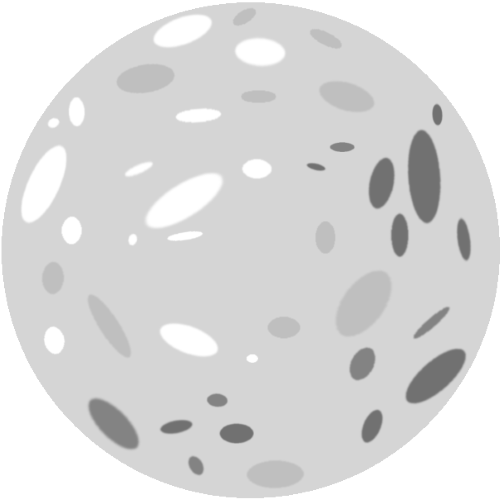
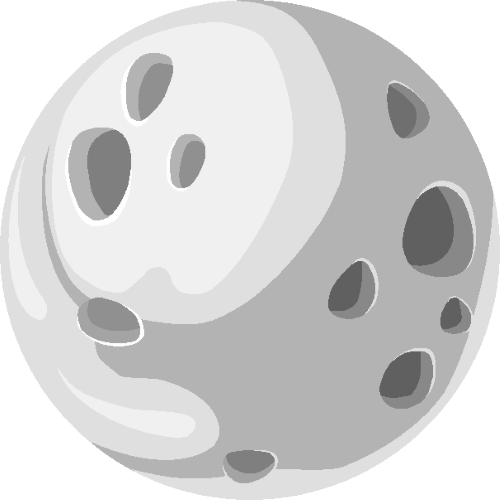
Update 270119.1
Reworked planets 1 and 2, added planet 5. Tweaked menu screen and added flash between planets.

diff --git a/game.min.js b/game.min.js
@@ -1,1 +1,1 @@
-const planetsCount=4,asteroidsCount=2;var highScore,loadState={preload:function(){game.load.image("background","assets/background.png"),game.load.image("logo","assets/logo.png"),game.load.image("player","assets/player.png"),game.load.spritesheet("engine","assets/engine.png",250,250,3),game.load.image("bullet","assets/bullet.png"),game.load.spritesheet("asteroids","assets/asteroids.png",80,80,asteroidsCount),game.load.spritesheet("planets","assets/planets.png",500,500,planetsCount),(highScore=window.localStorage.getItem("highScore"))||(highScore=0)},create:function(){game.state.start("menu")}},menuState={create:function(){this.background=game.add.sprite(0,0,"background"),this.planet=game.add.sprite(game.world.centerX,game.world.centerY,"planets"),this.planet.anchor.setTo(.5,.5),this.planet.frame=1,this.planet.tint=8327184,this.planet.scale.setTo(.5),this.logo=game.add.sprite(game.world.centerX,.8*game.world.centerY,"logo"),this.logo.anchor.setTo(.5,.5),this.logo.scale.setTo(.5),this.playText=game.add.text(game.world.centerX,1.6*game.world.centerY,"Press [SPACEBAR] to start!",{fill:"#FFF",font:"bold 26px Roboto"}),this.playText.anchor.setTo(.5),this.playText.alpha=0,this.tween=game.add.tween(this.playText).to({alpha:1},1e3,"Linear",!0,0,-1),this.tween.yoyo(!0,2e3),this.playKey=game.input.keyboard.addKey(Phaser.Keyboard.SPACEBAR),this.playKey.onDown.add(this.startGame,this)},startGame:function(){game.state.start("play")}};const innerOrbitOffset=0,outerOrbitOffset=75;var planet,orbit;function createPlanet(){(planet=game.add.sprite(game.world.centerX,game.world.centerY,"planets")).anchor.setTo(.5,.5),(orbit=game.add.graphics()).anchor.setTo(.5,.5),drawOrbit()}function generatePlanet(){let e=Math.floor(Math.random()*planetsCount),t=Math.floor(361*Math.random()-180),a=11316396*Math.random()+5460819,r=0,o=.005*(r=current.level<=50?Math.floor(Math.random()*(2*current.level+50)+200):Math.floor(151*Math.random()+200));planet.frame=e,planet.angle=t,planet.tint=a,planet.height=r,planet.width=r,planet.gravity=o,drawOrbit()}function drawOrbit(){orbit.clear(),orbit.lineStyle(2,16777215,.1),orbit.drawCircle(planet.x,planet.y,planet.width+110+outerOrbitOffset),orbit.drawCircle(planet.x,planet.y,planet.width+15+playerSize+innerOrbitOffset)}const playerSize=20;var player;function createPlayer(){player=game.add.sprite(game.world.centerX-playerSize/2,(game.height-planet.height)/2-playerSize,"player"),game.physics.enable(player,Phaser.Physics.ARCADE),player.width=playerSize,player.height=playerSize,player.anchor.setTo(.5,.5);let e=player.addChild(game.make.sprite(-125,-345,"engine"));e.animations.add("thrust"),e.animations.play("thrust",13,!0),player.speed=1,player.currentAngle=-90,player.maneuverForce=3.25,player.orbitOffset=outerOrbitOffset/2,player.orbitDirection=0,player.weapon=game.add.weapon(1,"bullet"),player.weapon.bulletKillType=Phaser.Weapon.KILL_WORLD_BOUNDS,player.weapon.trackSprite(player,0,15),player.weapon.bulletSpeed=400}function movePlayer(){0!=player.orbitDirection&&(player.orbitOffset>=innerOrbitOffset&&player.orbitOffset<=outerOrbitOffset&&(player.orbitOffset+=player.orbitDirection>0?player.orbitDirection-planet.gravity:player.orbitDirection+planet.gravity),player.orbitOffset<0&&(player.orbitOffset=0,player.orbitDirection=0),player.orbitOffset>75&&(player.orbitOffset=75,player.orbitDirection=0)),player.currentAngle=Phaser.Math.wrapAngle(player.currentAngle+player.speed);let e=Phaser.Math.degToRad(player.currentAngle),t=(planet.width+15+playerSize)/2+player.orbitOffset;player.x=planet.x+t*Math.cos(e),player.y=planet.y+t*Math.sin(e),player.angle=player.currentAngle}const spawnCount=12;var asteroids;function createAsteroids(){for(let e=0;e<spawnCount;e++){let e=game.add.sprite(game.world.centerX,game.world.centerY,"asteroids");e.anchor.setTo(.5,.5),e.kill(),asteroids.add(e)}asteroids.count=4,asteroids.nextPosition=0}function generateAsteroids(){current.level%3==0&&asteroids.count<spawnCount&&asteroids.count++;let e=-70,t=generatePositions(),a=0,r=[];for(let o=0;o<16;o++)if(o%2==0&&(e=Phaser.Math.wrapAngle(e+40)),t[a]==o){let t=asteroids.getChildAt(a),o=Math.floor(3*Math.random()-1),s=Phaser.Math.degToRad(e+o),n=Math.floor(11*Math.random()+15),i=(planet.width+15+n)/2,l=Math.floor(Math.random()*(outerOrbitOffset+1));if(r.push([e,l,e+o]),a>0&&e==r[a-1][0]){let e=r[a-1][1],t=Math.abs(e-l);t<n&&(l=e+n),e<15&&l>outerOrbitOffset-15&&(l=outerOrbitOffset),l<15&&e>outerOrbitOffset-15&&(l=innerOrbitOffset),e>20&&e<outerOrbitOffset-20&&t<n&&(l=e+n/2)}let d=i+l,h=planet.x+d*Math.cos(s),c=planet.y+d*Math.sin(s),p=Math.floor(Math.random()*asteroidsCount),g=Math.floor(361*Math.random()-180),m=1579032*Math.random()+10395294;t.x=h,t.y=c,t.height=n,t.width=n,t.frame=p,t.angle=g,t.tint=m,t.revive(),a++}asteroids.positionArr=r.map(function(e){return e[2]})}function generatePositions(){let e=[];if(asteroids.count<9)for(let t=0;t<8;t++)e[t]=2*t;else for(let t=0;t<16;t++)e[t]=t;let t,a=e.length,r=0;for(;a--;)r=Math.floor(Math.random()*(a+1)),t=e[a],e[a]=e[r],e[r]=t;return(e=e.slice(0,asteroids.count)).sort((e,t)=>e-t),e}var current={level:1,score:0,ammo:1},playState={create:function(){this.background=game.add.sprite(0,0,"background"),this.physics.startSystem(Phaser.Physics.ARCADE),createPlanet(),generatePlanet(),createPlayer(),asteroids=game.add.physicsGroup(),createAsteroids(),generateAsteroids(),this.levelLabel=game.add.text(.2*game.world.centerX,1.75*game.world.centerY,"LEVEL",{fill:"#fff",font:"18px Roboto"}),this.levelLabel.anchor.setTo(.5),this.levelText=game.add.text(.2*game.world.centerX,1.85*game.world.centerY,"999",{fill:"#fff",font:"bold 26px Roboto"}),this.levelText.anchor.setTo(.5),this.scoreLabel=game.add.text(1.8*game.world.centerX,1.75*game.world.centerY,"SCORE",{fill:"#fff",font:"18px Roboto"}),this.scoreLabel.anchor.setTo(.5),this.scoreText=game.add.text(1.8*game.world.centerX,1.85*game.world.centerY,"999999",{fill:"#fff",font:"bold 26px Roboto"}),this.scoreText.anchor.setTo(.5),this.plusKey=game.input.keyboard.addKey(Phaser.Keyboard.UP),this.plusKey.onDown.add(this.incOrbit,this),this.minusKey=game.input.keyboard.addKey(Phaser.Keyboard.DOWN),this.minusKey.onDown.add(this.decOrbit,this),this.fireKey=game.input.keyboard.addKey(Phaser.Keyboard.SPACEBAR),this.fireKey.onDown.add(this.fire,this)},update:function(){movePlayer(),game.physics.arcade.overlap(player,asteroids,this.playerHit),game.physics.arcade.overlap(player.weapon.bullets,asteroids,this.asteroidHit);let e=asteroids.positionArr[asteroids.nextPosition];e-1<player.angle&&e+1>player.angle&&(current.score+=current.level,asteroids.nextPosition++,asteroids.nextPosition==asteroids.positionArr.length?asteroids.nextPosition=0:e==asteroids.positionArr[asteroids.nextPosition]&&(current.score+=current.level,asteroids.nextPosition++)),-91==player.angle&&(current.level++,current.ammo=1,generatePlanet(),generateAsteroids()),this.levelText.setText(current.level),this.scoreText.setText(current.score)},incOrbit:function(){player.orbitDirection=player.maneuverForce},decOrbit:function(){player.orbitDirection=-player.maneuverForce},fire:function(){current.ammo>0&&(player.weapon.fireAngle=player.angle+90,player.weapon.fire(),current.ammo--)},playerHit:function(){game.state.start("lose")},asteroidHit:function(e,t){current.score+=current.level,t.kill()}},loseState={create:function(){this.background=game.add.sprite(0,0,"background"),this.gameOverText=game.add.text(game.world.centerX,.5*game.world.centerY,"GAME OVER!",{fill:"#FFF",font:"bold 48px Roboto"}),this.gameOverText.anchor.setTo(.5),this.scoreText=game.add.text(game.world.centerX,.8*game.world.centerY,"Score",{fill:"#FFF",font:"24px Roboto"}),this.scoreText.anchor.setTo(.5),this.lastScoreText=game.add.text(.8*game.world.centerX,game.world.centerY,"LAST:",{fill:"#FFF",font:"22px Roboto"}),this.lastScoreText.anchor.setTo(.5),this.lastScore=game.add.text(1.1*game.world.centerX,game.world.centerY,"999999",{fill:"#FFF",font:"bold 28px Roboto"}),this.lastScore.anchor.setTo(.5),this.highScoreText=game.add.text(.8*game.world.centerX,1.2*game.world.centerY,"HIGH:",{fill:"#FFF",font:"22px Roboto"}),this.highScoreText.anchor.setTo(.5),this.highScore=game.add.text(1.1*game.world.centerX,1.2*game.world.centerY,"999999",{fill:"#FFF",font:"bold 28px Roboto"}),this.highScore.anchor.setTo(.5),this.gameScore(),this.replayText=game.add.text(game.world.centerX,1.5*game.world.centerY,"Press [SPACEBAR] to restart!",{fill:"#FFF",font:"bold 26px Roboto"}),this.replayText.anchor.setTo(.5),this.replayText.alpha=0,this.tween=game.add.tween(this.replayText).to({alpha:1},1e3,"Linear",!0,0,-1),this.tween.yoyo(!0,2e3),this.replayKey=game.input.keyboard.addKey(Phaser.Keyboard.SPACEBAR),this.replayKey.onDown.add(this.restartGame,this)},restartGame:function(){current.level=1,current.score=0,current.ammo=1,game.state.start("play")},gameScore:function(){current.score>highScore&&(highScore=current.score,window.localStorage.setItem("highScore",highScore),this.scoreText.setText("NEW RECORD!"),this.scoreText.addColor("#ffd700",0),this.highScore.addColor("#ffd700",0)),this.lastScore.setText(current.score),this.highScore.setText(highScore)}},gameConfig={width:600,height:600,renderer:Phaser.CANVAS,parent:"game"},game=new Phaser.Game(gameConfig);game.state.add("load",loadState),game.state.add("menu",menuState),game.state.add("play",playState),game.state.add("lose",loseState),game.state.start("load");
+const planetsCount=5,asteroidsCount=2;var highScore,loadState={preload:function(){game.load.image("background","assets/background.png"),game.load.image("logo","assets/logo.png"),game.load.image("player","assets/player.png"),game.load.spritesheet("engine","assets/engine.png",250,250,3),game.load.image("bullet","assets/bullet.png"),game.load.spritesheet("asteroids","assets/asteroids.png",80,80,asteroidsCount),game.load.spritesheet("planets","assets/planets.png",500,500,planetsCount),(highScore=window.localStorage.getItem("highScore"))||(highScore=0)},create:function(){game.state.start("menu")}},menuState={create:function(){this.background=game.add.sprite(0,0,"background"),this.planet=game.add.sprite(game.world.centerX,game.world.centerY,"planets"),this.planet.anchor.setTo(.5,.5),this.planet.tint=8327184,this.planet.scale.setTo(.5),this.planet.alpha=0,game.add.tween(this.planet).to({alpha:1},1500,"Linear",!0),this.logo=game.add.sprite(game.world.centerX,.8*game.world.centerY,"logo"),this.logo.anchor.setTo(.5,.5),this.logo.scale.setTo(.5),this.logo.alpha=0,game.add.tween(this.logo).to({alpha:1},1500,"Linear",!0),this.playText=game.add.text(game.world.centerX,1.6*game.world.centerY,"Press [SPACEBAR] to start!",{fill:"#FFF",font:"bold 26px Roboto"}),this.playText.anchor.setTo(.5),this.playText.alpha=0,this.tween=game.add.tween(this.playText).to({alpha:1},1e3,"Linear",!0,500,-1),this.tween.yoyo(!0,2e3),this.playKey=game.input.keyboard.addKey(Phaser.Keyboard.SPACEBAR),this.playKey.onDown.add(this.startGame,this)},startGame:function(){game.state.start("play")}};const innerOrbitOffset=0,outerOrbitOffset=75;var planet,orbit;function createPlanet(){(planet=game.add.sprite(game.world.centerX,game.world.centerY,"planets")).anchor.setTo(.5,.5),(orbit=game.add.graphics()).anchor.setTo(.5,.5),drawOrbit()}function generatePlanet(){let e=Math.floor(Math.random()*planetsCount),t=Math.floor(361*Math.random()-180),a=11316396*Math.random()+5460819,r=0,o=.005*(r=current.level<=50?Math.floor(Math.random()*(2*current.level+50)+200):Math.floor(151*Math.random()+200));planet.frame=e,planet.angle=t,planet.tint=a,planet.height=r,planet.width=r,planet.gravity=o,drawOrbit()}function drawOrbit(){orbit.clear(),orbit.lineStyle(2,16777215,.1),orbit.drawCircle(planet.x,planet.y,planet.width+110+outerOrbitOffset),orbit.drawCircle(planet.x,planet.y,planet.width+15+playerSize+innerOrbitOffset)}const playerSize=20;var player;function createPlayer(){player=game.add.sprite(game.world.centerX-playerSize/2,(game.height-planet.height)/2-playerSize,"player"),game.physics.enable(player,Phaser.Physics.ARCADE),player.width=playerSize,player.height=playerSize,player.anchor.setTo(.5,.5);let e=player.addChild(game.make.sprite(-125,-345,"engine"));e.animations.add("thrust"),e.animations.play("thrust",13,!0),player.speed=1,player.currentAngle=-90,player.maneuverForce=3.25,player.orbitOffset=outerOrbitOffset/2,player.orbitDirection=0,player.weapon=game.add.weapon(1,"bullet"),player.weapon.bulletKillType=Phaser.Weapon.KILL_WORLD_BOUNDS,player.weapon.trackSprite(player,0,15),player.weapon.bulletSpeed=400}function movePlayer(){0!=player.orbitDirection&&(player.orbitOffset>=innerOrbitOffset&&player.orbitOffset<=outerOrbitOffset&&(player.orbitOffset+=player.orbitDirection>0?player.orbitDirection-planet.gravity:player.orbitDirection+planet.gravity),player.orbitOffset<0&&(player.orbitOffset=0,player.orbitDirection=0),player.orbitOffset>75&&(player.orbitOffset=75,player.orbitDirection=0)),player.currentAngle=Phaser.Math.wrapAngle(player.currentAngle+player.speed);let e=Phaser.Math.degToRad(player.currentAngle),t=(planet.width+15+playerSize)/2+player.orbitOffset;player.x=planet.x+t*Math.cos(e),player.y=planet.y+t*Math.sin(e),player.angle=player.currentAngle}const spawnCount=12;var asteroids;function createAsteroids(){for(let e=0;e<spawnCount;e++){let e=game.add.sprite(game.world.centerX,game.world.centerY,"asteroids");e.anchor.setTo(.5,.5),e.kill(),asteroids.add(e)}asteroids.count=4,asteroids.nextPosition=0}function generateAsteroids(){current.level%3==0&&asteroids.count<spawnCount&&asteroids.count++;let e=-70,t=generatePositions(),a=0,r=[];for(let o=0;o<16;o++)if(o%2==0&&(e=Phaser.Math.wrapAngle(e+40)),t[a]==o){let t=asteroids.getChildAt(a),o=Math.floor(3*Math.random()-1),s=Phaser.Math.degToRad(e+o),n=Math.floor(11*Math.random()+15),i=(planet.width+15+n)/2,l=Math.floor(Math.random()*(outerOrbitOffset+1));if(r.push([e,l,e+o]),a>0&&e==r[a-1][0]){let e=r[a-1][1],t=Math.abs(e-l);t<n&&(l=e+n),e<15&&l>outerOrbitOffset-15&&(l=outerOrbitOffset),l<15&&e>outerOrbitOffset-15&&(l=innerOrbitOffset),e>20&&e<outerOrbitOffset-20&&t<n&&(l=e+n/2)}let d=i+l,h=planet.x+d*Math.cos(s),c=planet.y+d*Math.sin(s),p=Math.floor(Math.random()*asteroidsCount),g=Math.floor(361*Math.random()-180),m=1579032*Math.random()+10395294;t.x=h,t.y=c,t.height=n,t.width=n,t.frame=p,t.angle=g,t.tint=m,t.revive(),a++}asteroids.positionArr=r.map(function(e){return e[2]})}function generatePositions(){let e=[];if(asteroids.count<9)for(let t=0;t<8;t++)e[t]=2*t;else for(let t=0;t<16;t++)e[t]=t;let t,a=e.length,r=0;for(;a--;)r=Math.floor(Math.random()*(a+1)),t=e[a],e[a]=e[r],e[r]=t;return(e=e.slice(0,asteroids.count)).sort((e,t)=>e-t),e}var current={level:1,score:0,ammo:1},playState={create:function(){this.background=game.add.sprite(0,0,"background"),this.physics.startSystem(Phaser.Physics.ARCADE),createPlanet(),generatePlanet(),createPlayer(),asteroids=game.add.physicsGroup(),createAsteroids(),generateAsteroids(),this.levelLabel=game.add.text(.2*game.world.centerX,1.75*game.world.centerY,"LEVEL",{fill:"#fff",font:"18px Roboto"}),this.levelLabel.anchor.setTo(.5),this.levelText=game.add.text(.2*game.world.centerX,1.85*game.world.centerY,"999",{fill:"#fff",font:"bold 26px Roboto"}),this.levelText.anchor.setTo(.5),this.scoreLabel=game.add.text(1.8*game.world.centerX,1.75*game.world.centerY,"SCORE",{fill:"#fff",font:"18px Roboto"}),this.scoreLabel.anchor.setTo(.5),this.scoreText=game.add.text(1.8*game.world.centerX,1.85*game.world.centerY,"999999",{fill:"#fff",font:"bold 26px Roboto"}),this.scoreText.anchor.setTo(.5),this.plusKey=game.input.keyboard.addKey(Phaser.Keyboard.UP),this.plusKey.onDown.add(this.incOrbit,this),this.minusKey=game.input.keyboard.addKey(Phaser.Keyboard.DOWN),this.minusKey.onDown.add(this.decOrbit,this),this.fireKey=game.input.keyboard.addKey(Phaser.Keyboard.SPACEBAR),this.fireKey.onDown.add(this.fire,this)},update:function(){movePlayer(),game.physics.arcade.overlap(player,asteroids,this.playerHit),game.physics.arcade.overlap(player.weapon.bullets,asteroids,this.asteroidHit);let e=asteroids.positionArr[asteroids.nextPosition];e-1<player.angle&&e+1>player.angle&&(current.score+=current.level,asteroids.nextPosition++,asteroids.nextPosition==asteroids.positionArr.length?asteroids.nextPosition=0:e==asteroids.positionArr[asteroids.nextPosition]&&(current.score+=current.level,asteroids.nextPosition++)),-91==player.angle&&(current.level++,current.ammo=1,game.camera.flash(2305342,250),generatePlanet(),generateAsteroids()),this.levelText.setText(current.level),this.scoreText.setText(current.score)},incOrbit:function(){player.orbitDirection=player.maneuverForce},decOrbit:function(){player.orbitDirection=-player.maneuverForce},fire:function(){current.ammo>0&&(player.weapon.fireAngle=player.angle+90,player.weapon.fire(),current.ammo--)},playerHit:function(){game.state.start("lose")},asteroidHit:function(e,t){current.score+=current.level,t.kill()}},loseState={create:function(){this.background=game.add.sprite(0,0,"background"),this.gameOverText=game.add.text(game.world.centerX,.5*game.world.centerY,"GAME OVER!",{fill:"#FFF",font:"bold 48px Roboto"}),this.gameOverText.anchor.setTo(.5),this.scoreText=game.add.text(game.world.centerX,.8*game.world.centerY,"Score",{fill:"#FFF",font:"24px Roboto"}),this.scoreText.anchor.setTo(.5),this.lastScoreText=game.add.text(.8*game.world.centerX,game.world.centerY,"LAST:",{fill:"#FFF",font:"22px Roboto"}),this.lastScoreText.anchor.setTo(.5),this.lastScore=game.add.text(1.1*game.world.centerX,game.world.centerY,"999999",{fill:"#FFF",font:"bold 28px Roboto"}),this.lastScore.anchor.setTo(.5),this.highScoreText=game.add.text(.8*game.world.centerX,1.2*game.world.centerY,"HIGH:",{fill:"#FFF",font:"22px Roboto"}),this.highScoreText.anchor.setTo(.5),this.highScore=game.add.text(1.1*game.world.centerX,1.2*game.world.centerY,"999999",{fill:"#FFF",font:"bold 28px Roboto"}),this.highScore.anchor.setTo(.5),this.gameScore(),this.replayText=game.add.text(game.world.centerX,1.5*game.world.centerY,"Press [SPACEBAR] to restart!",{fill:"#FFF",font:"bold 26px Roboto"}),this.replayText.anchor.setTo(.5),this.replayText.alpha=0,this.tween=game.add.tween(this.replayText).to({alpha:1},1e3,"Linear",!0,0,-1),this.tween.yoyo(!0,2e3),this.replayKey=game.input.keyboard.addKey(Phaser.Keyboard.SPACEBAR),this.replayKey.onDown.add(this.restartGame,this)},restartGame:function(){current.level=1,current.score=0,current.ammo=1,game.state.start("play")},gameScore:function(){current.score>highScore&&(highScore=current.score,window.localStorage.setItem("highScore",highScore),this.scoreText.setText("NEW RECORD!"),this.scoreText.addColor("#ffd700",0),this.highScore.addColor("#ffd700",0)),this.lastScore.setText(current.score),this.highScore.setText(highScore)}},gameConfig={width:600,height:600,renderer:Phaser.CANVAS,parent:"game"},game=new Phaser.Game(gameConfig);game.state.add("load",loadState),game.state.add("menu",menuState),game.state.add("play",playState),game.state.add("lose",loseState),game.state.start("load");

diff --git a/scripts/menu.js b/scripts/menu.js
@@ -7,20 +7,25 @@ var menuState = {
 
         this.planet = game.add.sprite(game.world.centerX, game.world.centerY, "planets");
         this.planet.anchor.setTo(.5, .5);
-        this.planet.frame = 1;
         this.planet.tint = 0x7f1010;
         this.planet.scale.setTo(.5);
+        this.planet.alpha = 0;
+
+        game.add.tween(this.planet).to( { alpha: 1 }, 1500, "Linear", true);
 
         this.logo = game.add.sprite(game.world.centerX, game.world.centerY * 0.8, "logo");
         this.logo.anchor.setTo(.5, .5);
         this.logo.scale.setTo(.5);
+        this.logo.alpha = 0;
+
+        game.add.tween(this.logo).to( { alpha: 1 }, 1500, "Linear", true);
 
         this.playText = game.add.text(game.world.centerX, game.world.centerY * 1.6, 
             "Press [SPACEBAR] to start!", { fill: '#FFF', font: "bold 26px Roboto" });
         this.playText.anchor.setTo(.5);
         this.playText.alpha = 0;
 
-        this.tween = game.add.tween(this.playText).to( { alpha: 1 }, 1000, "Linear", true, 0, -1);
+        this.tween = game.add.tween(this.playText).to( { alpha: 1 }, 1000, "Linear", true, 500, -1);
         this.tween.yoyo(true, 2000);
 
         this.playKey = game.input.keyboard.addKey(Phaser.Keyboard.SPACEBAR);

diff --git a/scripts/play.js b/scripts/play.js
@@ -82,6 +82,8 @@ var playState = {
             current.level++;
             current.ammo = 1;
 
+            game.camera.flash(0x232d3e, 250);
+
             generatePlanet();
             generateAsteroids();      
         }

diff --git a/scripts/load.js b/scripts/load.js
@@ -1,6 +1,6 @@
 // This is responsible for loading all assets and setting active state to menu.
 
-const planetsCount = 4;
+const planetsCount = 5;
 const asteroidsCount = 2;
 
 var highScore;
